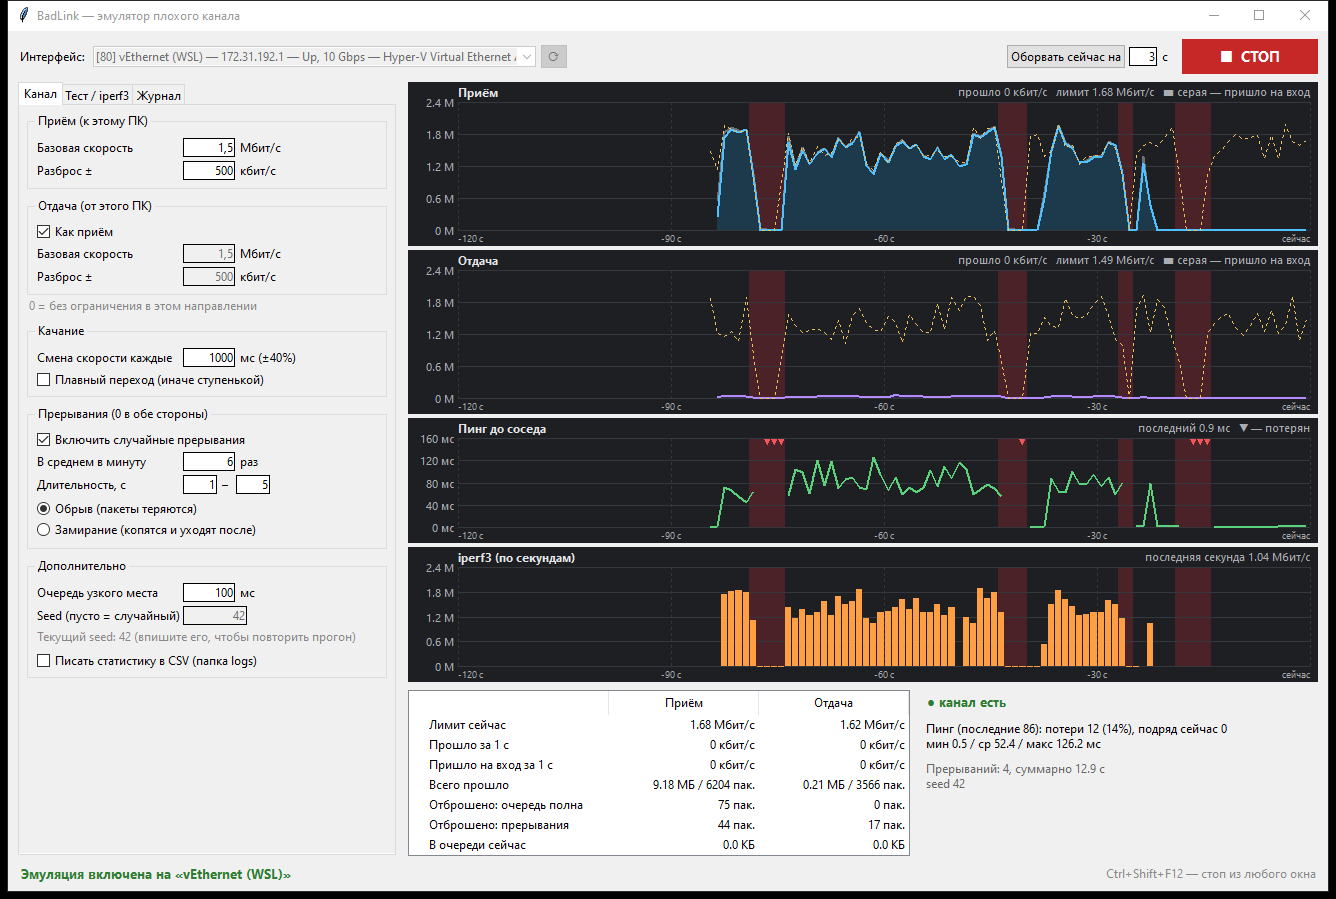
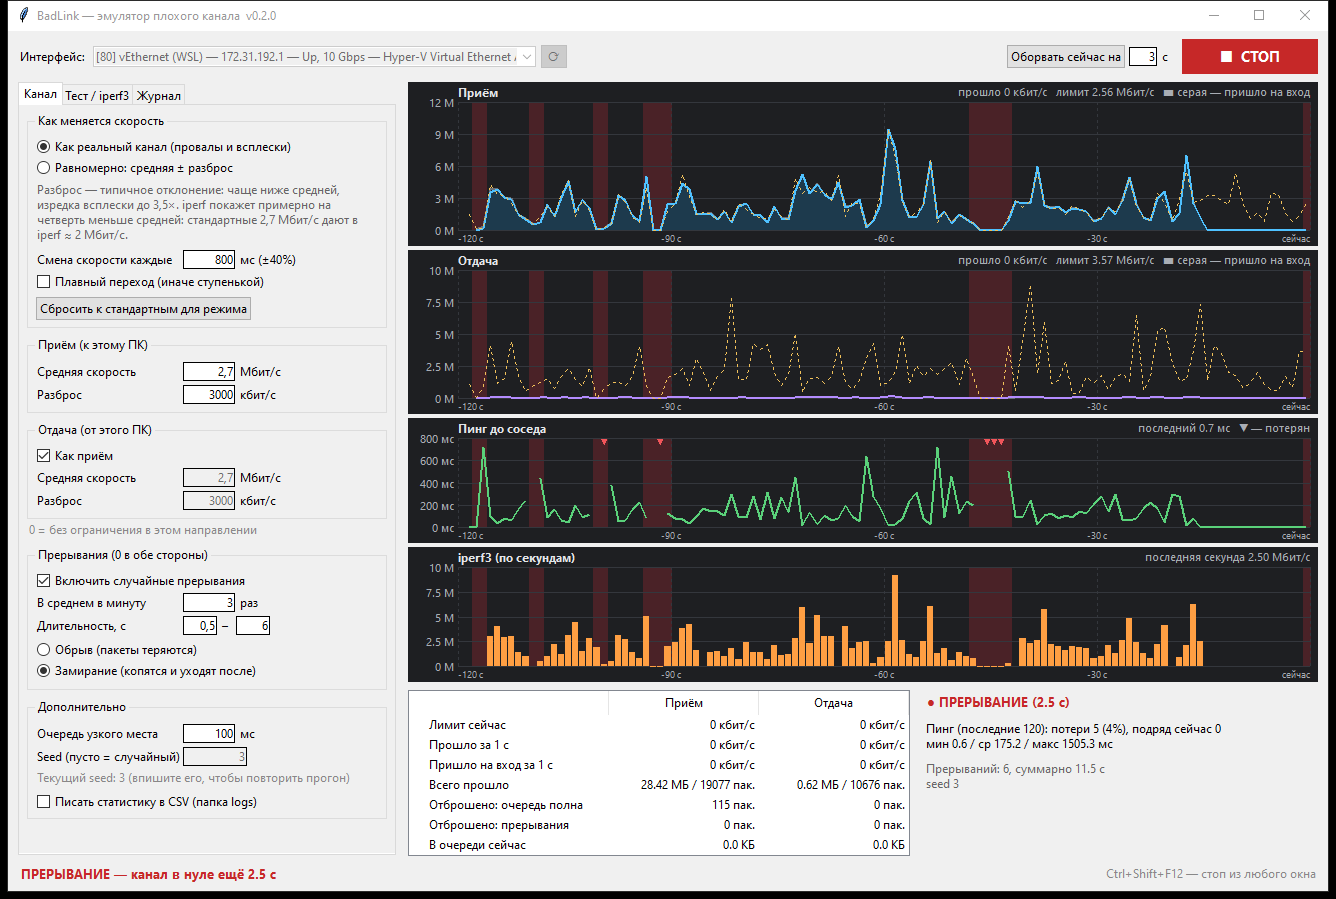
README: новый скриншот — режим «как реальный канал» со стандартными настройками

diff --git a/README.md b/README.md
@@ -3,7 +3,7 @@
 Зажимает реальный сетевой интерфейс Windows до условий плохого on-prem канала, чтобы отлаживать
 софт и железки на очереди, отвалы и переподключения.
 
-![BadLink: 1,5 Мбит/с ± 500, прерывания 6/мин](docs/screenshot.png)
+![BadLink: режим «как реальный канал» со стандартными настройками, iperf3 -R](docs/screenshot.png)
 
 - **Весь IP-трафик выбранного интерфейса**, без исключений.
 - **Приём и отдача раздельно:** средняя скорость + разброс; скорость случайно меняется ~раз в секунду.
